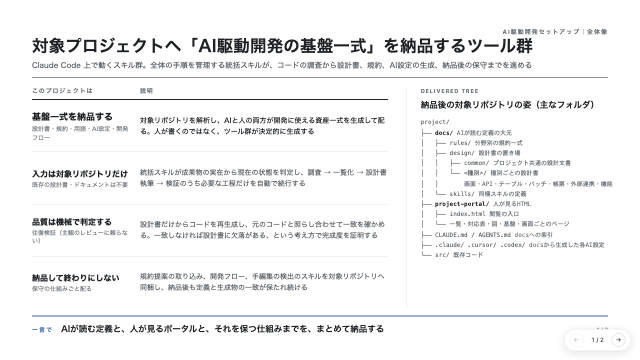
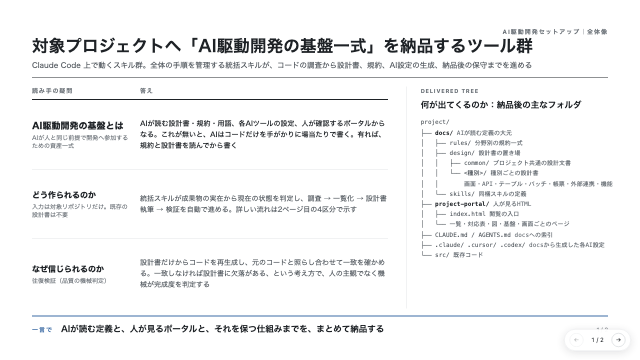
【スタイル】1ページ目を読み手の疑問3問へ再設計

diff --git a/slides/AI駆動開発基盤納品-4区分/解説スライド.html b/slides/AI駆動開発基盤納品-4区分/解説スライド.html
@@ -70,27 +70,23 @@
     </header>
     <div class="docs">
       <div class="guide">
-        <div class="g-head"><span>このプロジェクトは</span><span>説明</span></div>
+        <div class="g-head"><span>読み手の疑問</span><span>答え</span></div>
         <div class="g-row star">
-          <div class="g-what"><span class="nm">基盤一式を納品する</span><span class="sub">設計書・規約・用語・AI設定・開発フロー</span></div>
-          <span class="g-mid">対象リポジトリを解析し、AIと人の両方が開発に使える資産一式を生成して配る。人が書くのではなく、ツール群が決定的に生成する</span>
+          <div class="g-what"><span class="nm">AI駆動開発の基盤とは</span><span class="sub">AIが人と同じ前提で開発へ参加するための資産一式</span></div>
+          <span class="g-mid">AIが読む設計書・規約・用語、各AIツールの設定、人が確認するポータルからなる。これが無いと、AIはコードだけを手がかりに場当たりで書く。有れば、規約と設計書を読んでから書く</span>
         </div>
         <div class="g-row">
-          <div class="g-what"><span class="nm">入力は対象リポジトリだけ</span><span class="sub">既存の設計書・ドキュメントは不要</span></div>
-          <span class="g-mid">統括スキルが成果物の実在から現在の状態を判定し、調査 → 一覧化 → 設計書執筆 → 検証のうち必要な工程だけを自動で続行する</span>
+          <div class="g-what"><span class="nm">どう作られるのか</span><span class="sub">入力は対象リポジトリだけ。既存の設計書は不要</span></div>
+          <span class="g-mid">統括スキルが成果物の実在から現在の状態を判定し、調査 → 一覧化 → 設計書執筆 → 検証を自動で進める。詳しい流れは2ページ目の4区分で示す</span>
         </div>
         <div class="g-row">
-          <div class="g-what"><span class="nm">品質は機械で判定する</span><span class="sub">往復検証（主観のレビューに頼らない）</span></div>
-          <span class="g-mid">設計書だけからコードを再生成し、元のコードと照らし合わせて一致を確かめる。一致しなければ設計書に欠落がある、という考え方で完成度を証明する</span>
-        </div>
-        <div class="g-row">
-          <div class="g-what"><span class="nm">納品して終わりにしない</span><span class="sub">保守の仕組みごと配る</span></div>
-          <span class="g-mid">規約提案の取り込み、開発フロー、手編集の検出のスキルを対象リポジトリへ同梱し、納品後も定義と生成物の一致が保たれ続ける</span>
+          <div class="g-what"><span class="nm">なぜ信じられるのか</span><span class="sub">往復検証（品質の機械判定）</span></div>
+          <span class="g-mid">設計書だけからコードを再生成し、元のコードと照らし合わせて一致を確かめる。一致しなければ設計書に欠落がある、という考え方で、人の主観でなく機械が完成度を判定する</span>
         </div>
       </div>
       <aside class="treebox">
         <span class="tree-label">DELIVERED TREE</span>
-        <p class="tree-title">納品後の対象リポジトリの姿（主なフォルダ）</p>
+        <p class="tree-title">何が出てくるのか：納品後の主なフォルダ</p>
         <pre class="mono">project/
 ├── <span class="hot">docs/</span> <span class="dim">AIが読む定義の大元</span>
 │   ├── rules/ <span class="dim">分野別の規約一式</span>
@@ -118,7 +114,7 @@
     <header class="slide-header">
       <span class="kicker">AI駆動開発セットアップ｜4つの区分</span>
       <h1 class="slide-title">4つの区分：セットアップ・リバース・保守・現場運用</h1>
-      <p class="slide-subtitle">保守の主体は2つに分かれる。ツール群が担う納品物の維持と、納品先の現場が回す開発サイクルである</p>
+      <p class="slide-subtitle">どう作られるのかの詳細フロー。4つの区分と、それぞれの実行主体を示す</p>
     </header>
     <p class="thesis">セットアップから保守までの3区分は、本ツール群（納品する側のAI）が実行する。現場運用だけは、納品先の開発チームが同梱スキルで回す。</p>
     <div class="roles">

diff --git a/index.html b/index.html
@@ -1622,7 +1622,9 @@ const SLIDES = [
     "pack": false,
     "has_prompt": false,
     "template": "",
-    "date": "2026-09-01"
+    "date": "2026-09-01",
+    "updated": "2026-09-01",
+    "updatedAt": "2026-09-01T15:52:22+09:00"
   }
 ];
 const PACKS = [
